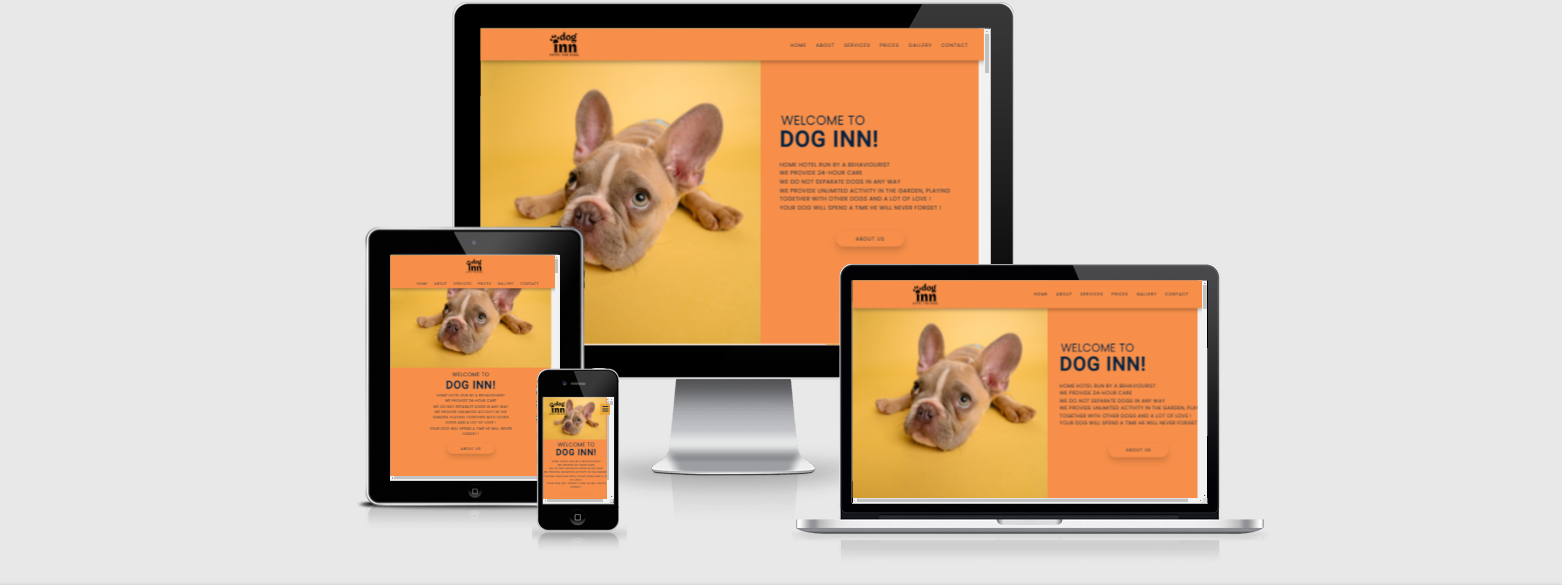
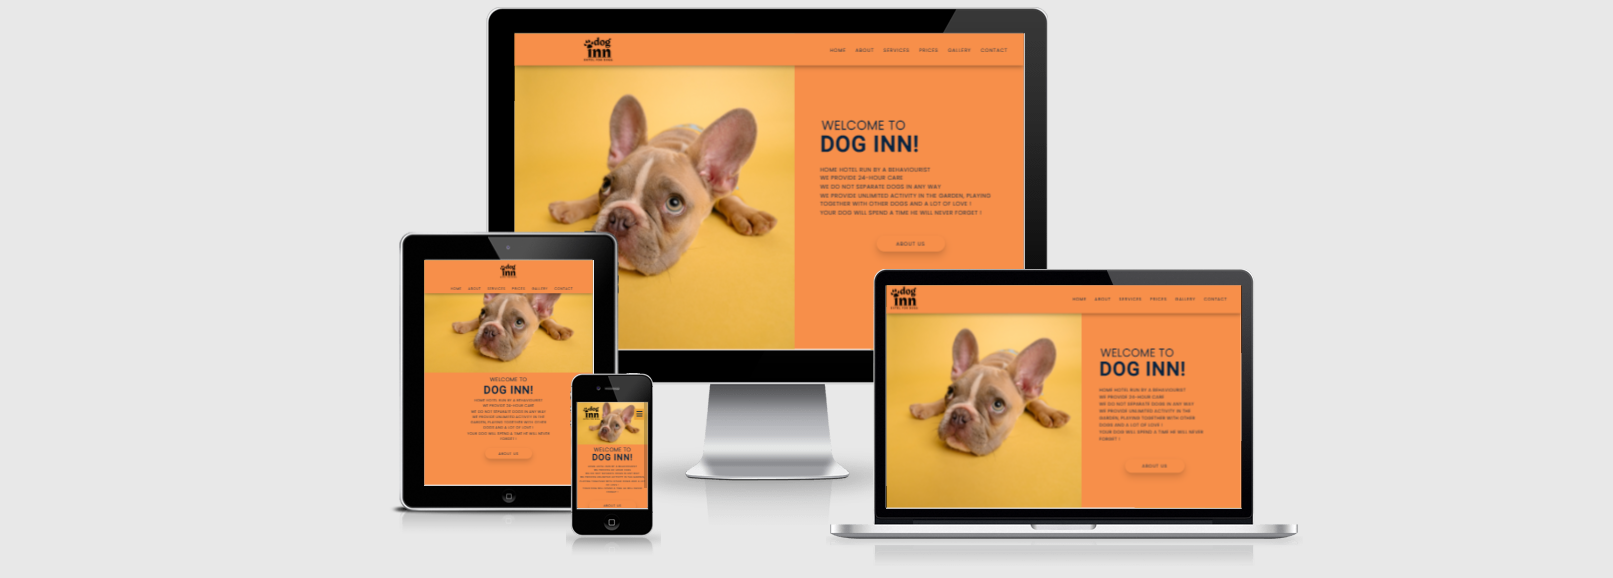
- swap image in readme images file - change font size of list items in the footer - add height to about container for devices max width 950px and 800px - change font size the prices button link

Changed region(s): [[0.2151, 0.0, 0.8297, 0.9654]]

diff --git a/assets/css/style.css b/assets/css/style.css
@@ -511,7 +511,7 @@ footer {
     list-style: none;
     font-family: 'Poppins', sans-serif;
     line-height: 41px;
-    font-size: 18px;
+    font-size: 16px;
     letter-spacing: 1px;
 }
 
@@ -788,6 +788,7 @@ label {
     #about-container {
         flex-direction: column-reverse;
         width: 660px;
+        height: 100%;
     }
 
     #love-icon {
@@ -890,6 +891,7 @@ label {
 @media screen and (max-width: 800px) {
     #about-container {
         width: auto;
+        height: 100%;
     }
 
     #services-container {
@@ -1064,6 +1066,10 @@ label {
 
     #prices-btn {
         width: 300px;
+    }
+
+    #prices-btn a {
+        font-size: 11px;
     }
 
     #gallery-section h1 {
